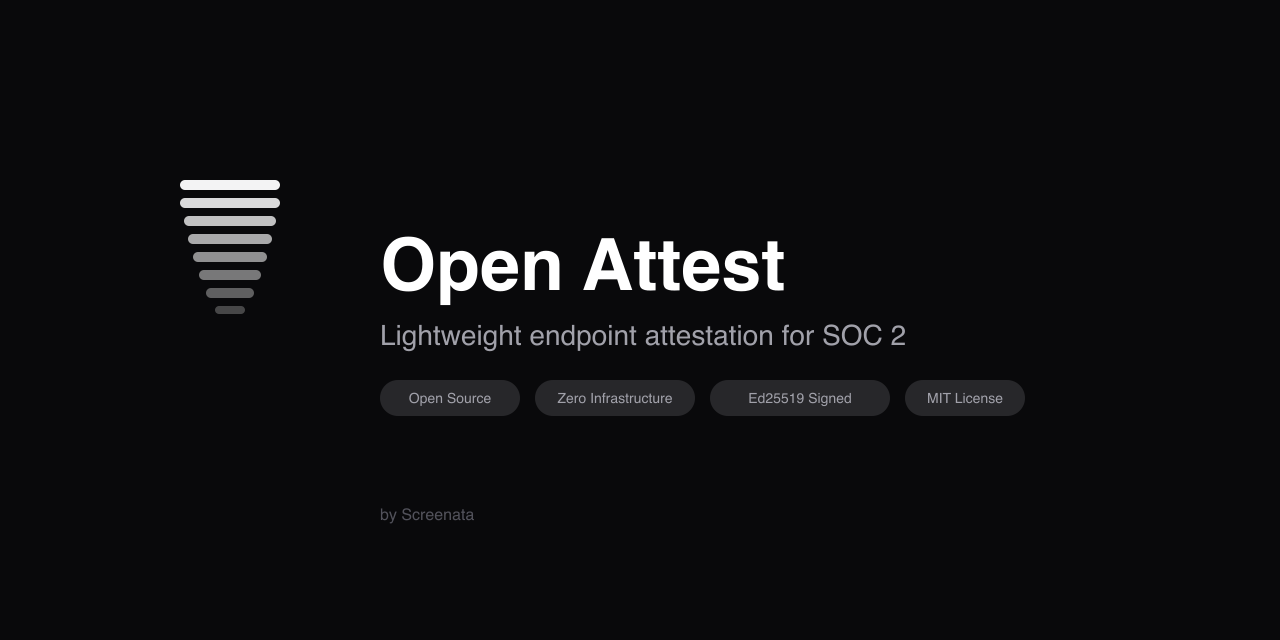
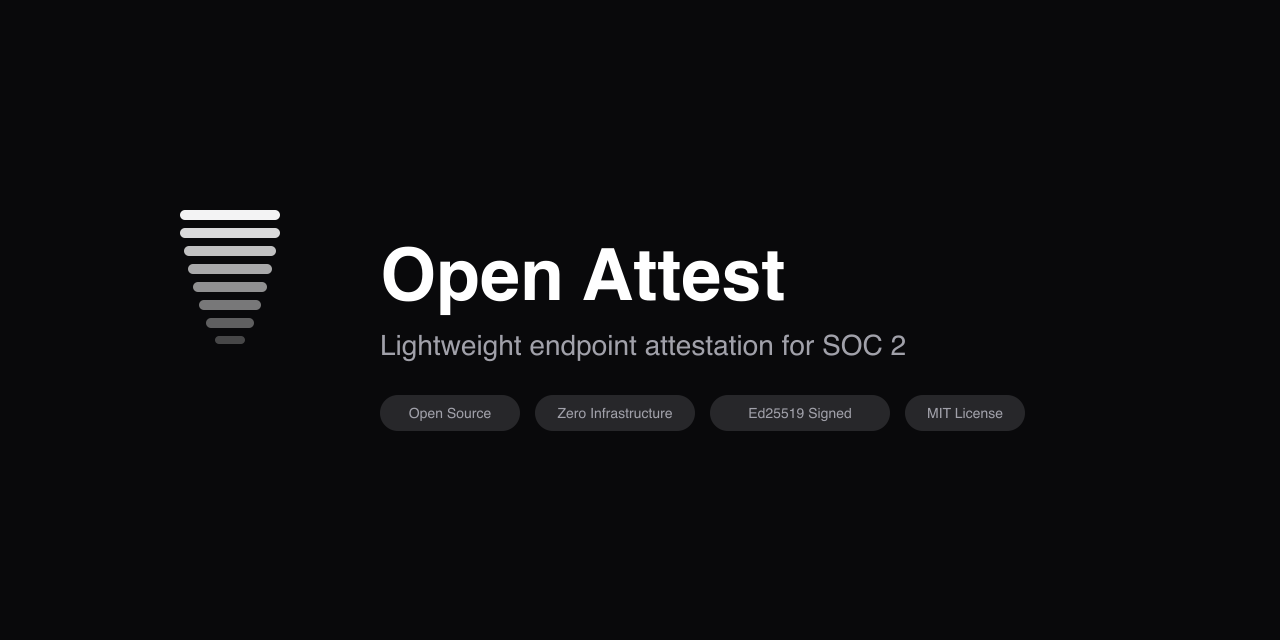
open-attest v0.3.2: full project with architecture diagram (#2)
* feat: device re-enrollment upsert, SPA deep link fix, hardware UUID dedup

- Re-enrollment with same hardware UUID updates existing agent in-place
  (same agent_id, device_id, preserves all attestation history)
- Added hardware_uuid column to agents table for device identity
- Fixed SPA deep links (e.g. /admin/devices/:id) returning 307 redirect
  by setting html_handling=none in Cloudflare assets config
- Removed navigate() side effect during render in Layout component
- Added getAgentByHardwareUuid for finding any agent (active or revoked)

* ci: remove build/package jobs from CI, keep only tests

Builds and packaging only run on tagged releases (release.yml).
CI now runs server tests + agent tests only.

* feat: add device manufacturer, model, and serial number checks

macOS: system_profiler SPHardwareDataType (Apple, model name, serial)
Windows: WMI Win32_ComputerSystem + Win32_BIOS (manufacturer, model, serial)
Linux: /sys/class/dmi/id/ sysfs files (vendor, product, serial)

Agent now collects 16 checks per attestation.

* fix: add root package.json for one-click Cloudflare deploy

The deploy button runs npm install && npm run deploy at the repo root.
Root package.json delegates to server/ for install, admin build, and deploy.

* fix: add root wrangler.toml for one-click Cloudflare deploy

Cloudflare's deploy button requires wrangler.toml at the repo root.
This config points to the server directory for main, assets, and
migrations.
[…]

diff --git a/README.md b/README.md
@@ -1,5 +1,7 @@
 # open-attest
 
+![Open Attest](social-preview.png)
+
 Lightweight, open-source endpoint attestation for SOC 2. Collects signed endpoint posture facts and exposes them through an open API — no MDM, no infrastructure, no complexity.
 
 [![Deploy to Cloudflare Workers](https://deploy.workers.cloudflare.com/button)](https://deploy.workers.cloudflare.com/?url=https://github.com/screenata/open-attest/tree/main/server)
@@ -36,11 +38,7 @@ Every attestation is signed with Ed25519 so the server can verify it came from a
 
 ## Architecture
 
-```
-Agent (Rust)  -->  Reference Server (Cloudflare Workers + D1)  -->  Screenata / your GRC
-                         |
-                    Admin UI (React)
-```
+![OpenAttest System Architecture](architecture-diagram.png)
 
 - **Agent**: Rust binary (macOS, Windows, Linux), runs as a background daemon, collects posture checks, signs and submits attestations
 - **Server**: TypeScript on Cloudflare Workers with D1 (SQLite) and Drizzle ORM. Zero infrastructure to manage. Free tier covers ~50 devices
